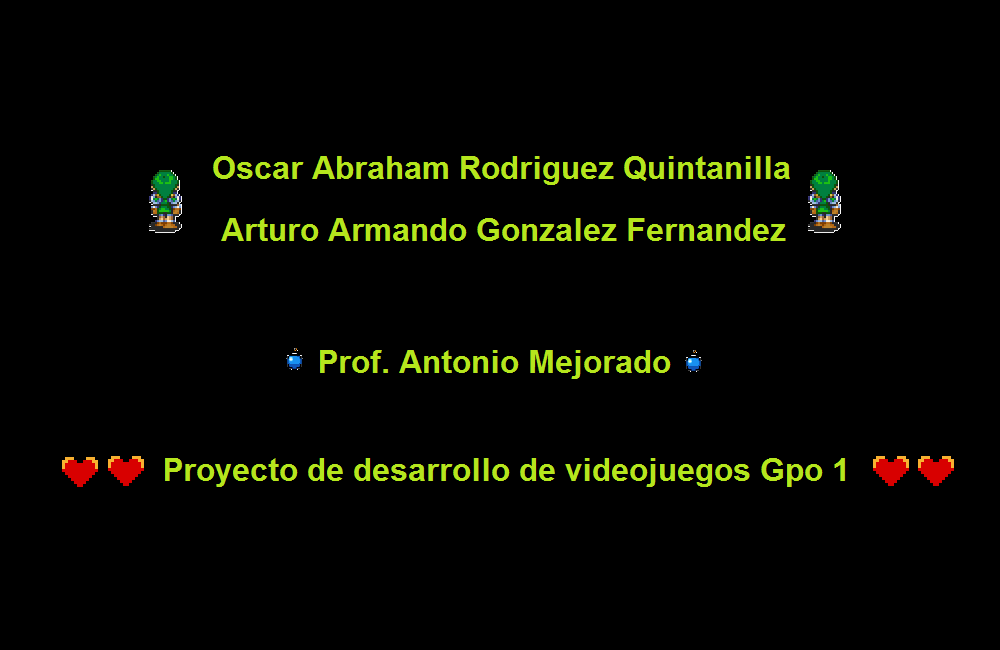
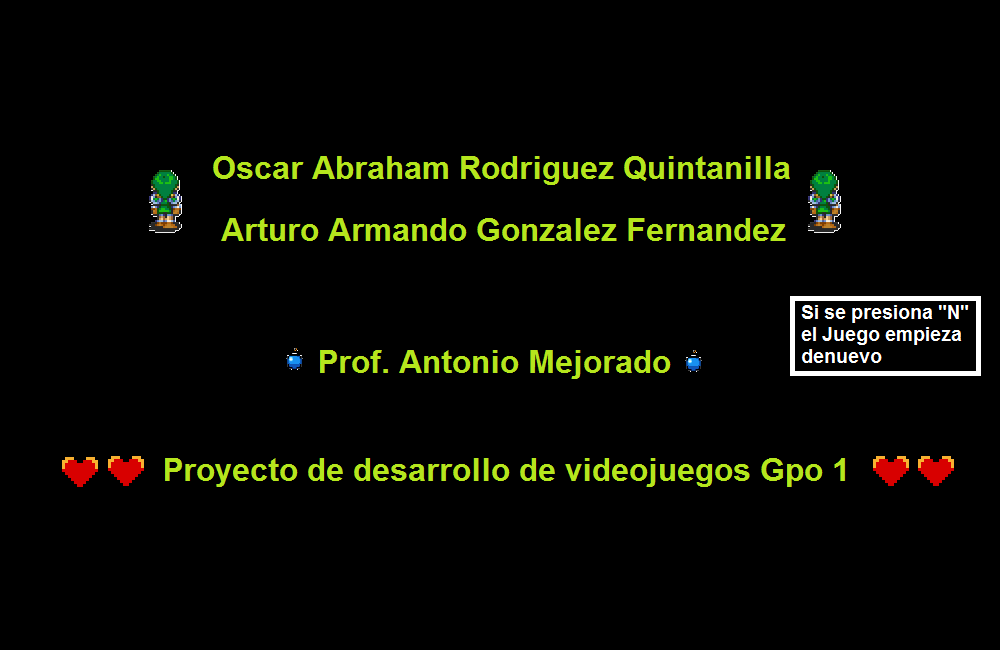
Linea 209

Changed region(s): [[0.775, 0.4308, 0.992, 0.5846]]

diff --git a/src/tiroparabolico/AppletExamen1.java b/src/tiroparabolico/AppletExamen1.java
@@ -30,33 +30,33 @@ public class AppletExamen1 extends JFrame implements Runnable, KeyListener, Mous
     }
 
     private Bueno heroe;                //Objeto tipo Bueno
-    private Malo bomba;
+    private Malo bomba;                 //objeto tipo bomba
     private Graphics dbg;               //Objeto tipo Graphics
     private Image dbImage;              //Imagen para el doblebuffer  
     private long tiempoActual;          //Long para el tiempo del applet
     private boolean movimiento;         //Booleano si esta en movimient
-    private boolean bombamueve;
+    private boolean bombamueve;         //Booleano para saber si se mueve la bomba
     private boolean pausa;              //Booleando para pausa
     private int direccion;              //entero para la direccion
     private SoundClip chCacha;          //audio para el heroe
     private SoundClip chFalla;          //audio para las paredes
-    private int vidas;
-    private int contcaidas;
-    private FileWriter file;
-    private PrintWriter out;
-    private boolean guarda;
-    private boolean carga;
-    private File archivo;
-    private FileReader fr;
-    private BufferedReader br;
-    private int arr[];
-    private int vx;
-    private int vy;
-    private boolean gameover;
-    private Image im_over;
-    private boolean sound;
-    private Image informacion;
-    private boolean info;
+    private int vidas;                  //entero para las vidas
+    private int contcaidas;             //entero para saber cuantas bombas han caido
+    private FileWriter file;            //un FileWriter para el manejo de archivos
+    private PrintWriter out;            //un Printwriter para el manejo de archivos
+    private boolean guarda;             //flag para saber si se guarda
+    private boolean carga;              //flag para saber si se carga
+    private File archivo;               //File para el archivo a crear
+    private FileReader fr;              //fileReader para la lectura del archivo
+    private BufferedReader br;          //Para leer las variables del archivo
+    private int arr[];                  //arreglo para guardar las variables
+    private int vx;                     //velocidad en x
+    private int vy;                     //velocidad en y
+    private boolean gameover;           //flag para el gameover
+    private Image im_over;              //imagen del gameover
+    private boolean sound;              //flag para saber si se hace sonido
+    private Image informacion;          //imagen de la informacion
+    private boolean info;               //flag para saber si se despliega la informacion
     /**
      * Metodo <I>init</I> sobrescrito de la clase <code>Applet</code>.<P>
      * En este metodo se inizializan las variables o se crean los objetos a
@@ -206,7 +206,7 @@ public class AppletExamen1 extends JFrame implements Runnable, KeyListener, Mous
               vidas=arr[5];
               contcaidas=arr[6];
               bomba.setScore(arr[7]);
-              bombamueve=true;  //Y GRABA TAMBIEN EL SOUND 
+              bombamueve=true;  //GRABA TAMBIEN EL SOUND y el BOMBAMUEVE
         }
         carga = false;
         if(heroe.intersecta(bomba)){
@@ -228,7 +228,7 @@ public class AppletExamen1 extends JFrame implements Runnable, KeyListener, Mous
         }
         
         //cuando la bomba sale por abajo
-        if(bomba.getPosY()>this.getHeight()) {
+        if(bomba.getPosY()>=this.getHeight()) {
            
             bomba.setPosX(30);
             bomba.setPosY(330);
@@ -379,6 +379,13 @@ public class AppletExamen1 extends JFrame implements Runnable, KeyListener, Mous
         } //Presiono der
         if (e.getKeyCode() == KeyEvent.VK_RIGHT) {
             direccion = 0;
+        }
+        if (e.getKeyCode() == KeyEvent.VK_N) {
+            if (vidas <= 0){
+                vidas = 5;
+                bomba.setScore(0);
+                gameover=false;
+            }
         }
         // Presiono izq
     }
